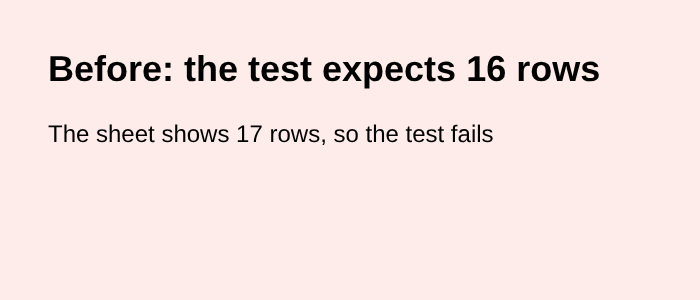
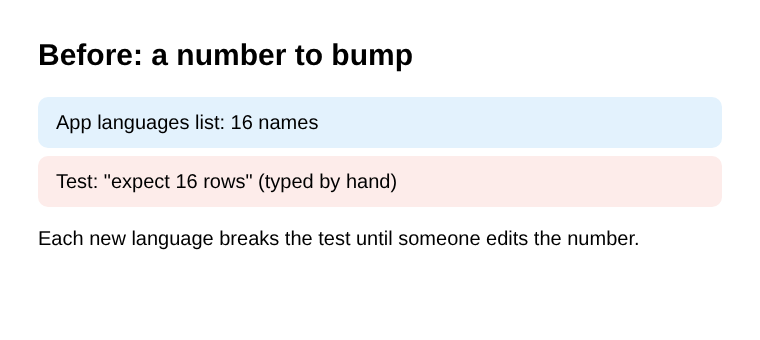
LAN-226: ACCT-026 reads the app's language list, so new languages need no test change
Claude-Session: https://claude.ai/code/session_019xSjUqXW5z1PnmbpdKbkyZ

Changed region(s): [[0.03, 0.12, 0.96, 0.48], [0.03, 0.66, 0.84, 0.75], [0.06, 0.51, 0.54, 0.57]]

diff --git a/e2e/ui/11-account-and-settings.spec.ts b/e2e/ui/11-account-and-settings.spec.ts
@@ -8,6 +8,7 @@
 // Tests that change a name or sign out use their own session or put the
 // name back, so the tests after them see the fixture as it was built.
 import type { Browser, Page } from '@playwright/test';
+import { UI_LANGUAGES } from '@langquest-next/core';
 import {
   addNoteUI, catalog, deleteNew, languageLoaded, openHistory, quietDevice, quietDevServer, toTabs, expectAccountSent, freshSession, newAccount, noteAs, openOnce, saveName, say, stateFor, type NewAccount
 } from './account-helpers';
@@ -505,11 +506,11 @@ test('ACCT-025 New organization opens Create Organization', async ({ page }) => 
 
 // ---- The app's language --------------------------------------------------------------------------
 
-const LANGUAGES: [string, string | null][] = [
-  ['English', null], ['Español', 'Spanish'], ['Português (Brasil)', 'Portuguese (Brazil)'], ['Français', 'French'], ['العربية', 'Arabic'],
-  ['Kiswahili', 'Swahili'], ['Hausa', 'Hausa'], ['አማርኛ', 'Amharic'], ['हिन्दी', 'Hindi'], ['বাংলা', 'Bengali'], ['नेपाली', 'Nepali'],
-  ['Bahasa Indonesia', 'Indonesian'], ['简体中文', 'Chinese (Simplified)'], ['ไทย', 'Thai'], ['မြန်မာ', 'Burmese'], ['Tagalog', 'Tagalog']
-];
+// Every language the app offers (core's UI_LANGUAGES), each with its name in English (the sheet's second line;
+// none for English, which is showing). Adding a language needs no change here.
+const LANGUAGES: [string, string | null][] = UI_LANGUAGES.map((l) => [
+  l.name, l.code === 'en' ? null : say(catalog('en'), `uiLanguage.names.${l.code === 'zh-Hans' ? 'zhHans' : l.code}`)
+]);
 
 async function openLanguageSheet(page: Page) {
   await openMe(page);
@@ -517,11 +518,11 @@ async function openLanguageSheet(page: Page) {
   await expect(text(page, 'Choose the language LangQuest speaks to you in.')).toBeVisible();
 }
 
-test('ACCT-026 The Language sheet lists sixteen languages', async ({ page }) => {
+test('ACCT-026 The Language sheet lists every app language', async ({ page }) => {
   await openAs(page, world(), 'TRANS');
   await openLanguageSheet(page);
   const radios = page.getByRole('radio').locator('visible=true');
-  await expect(radios).toHaveCount(17);
+  await expect(radios).toHaveCount(LANGUAGES.length + 1); // the follow-the-phone row, then one row per language
   await expect(radios.nth(0)).toHaveText(/^Same as this browser\s*Now English$/);
   const rows = await radios.allInnerTexts();
   LANGUAGES.forEach(([own, english], i) => {
